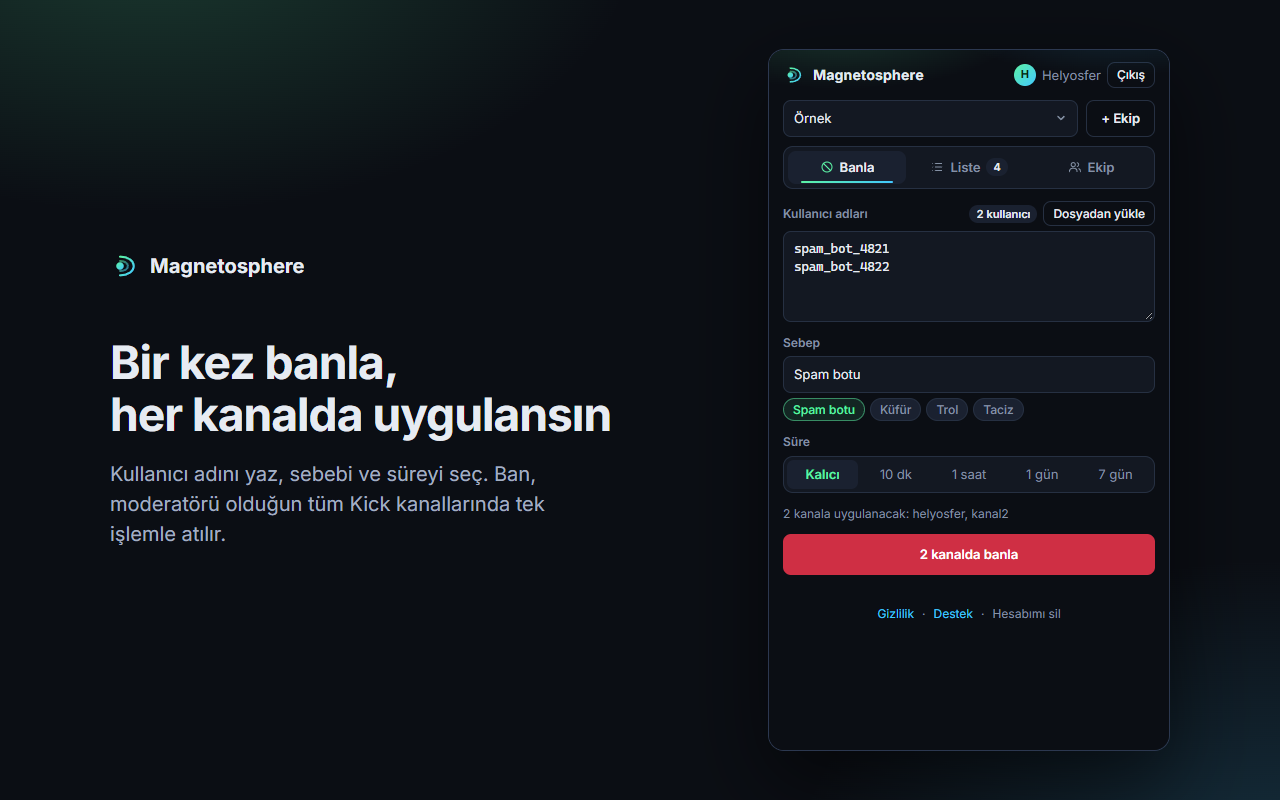
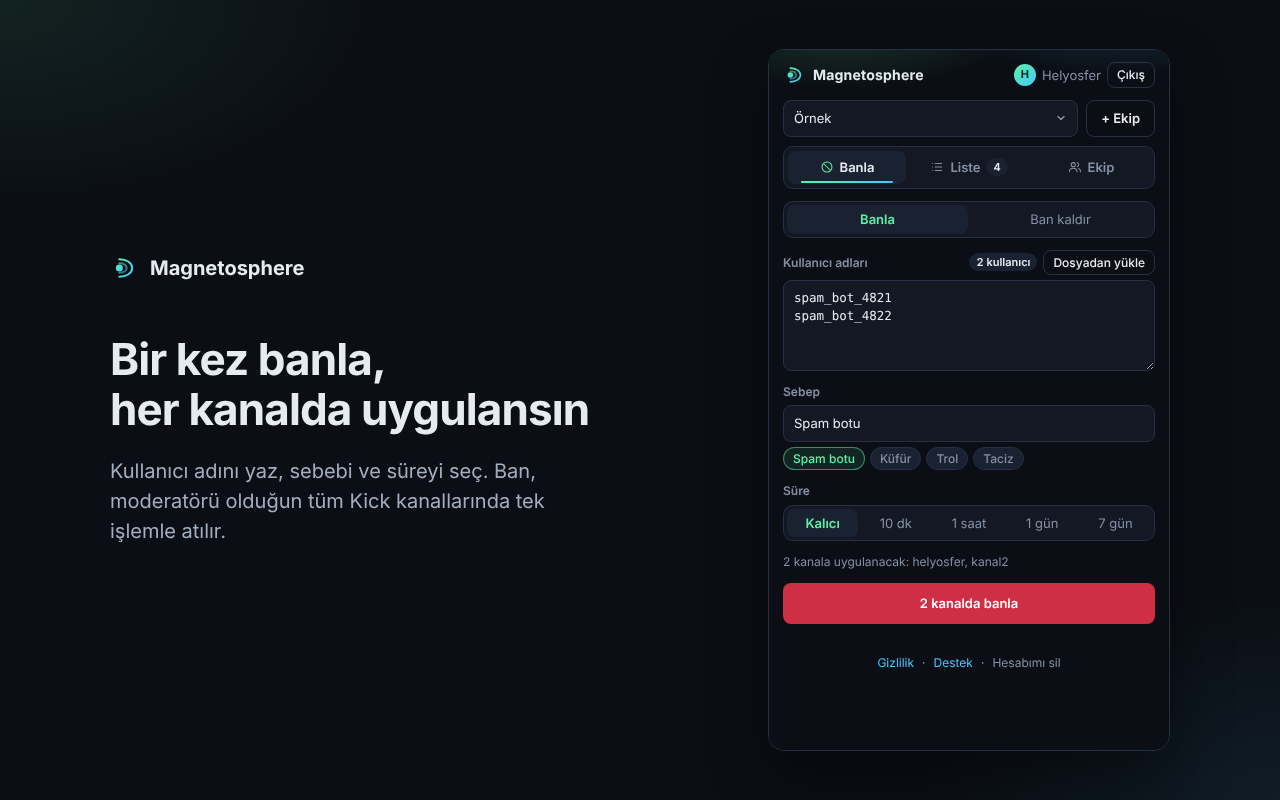
README: Ban kaldır görseli, güncel ekran görüntüleri ve güncelleme adımlarında sürüm kontrolü
- Banla ve Sıra görselleri yeni Banla / Ban kaldır seçimiyle yeniden çekildi;
  ban kaldırma için beşinci mağaza görseli (ekran-5-kaldir.png) eklendi.
- Başlarken'e eski banları kaldırma adımı, rollere listedeki başkasının banı
  kuralı, yol haritasına adıyla ban kaldırma eklendi.
- Sunucuyu güncellemek: git pull klasörün sahibiyle çalıştırılır, yeniden
  başlatmadan önce VERSION kontrol edilir; /health eski sürümü gösterirse
  bakılacak yerler yazıldı.

Claude-Session: https://claude.ai/code/session_012wkESYkN3gt9aucbmjqE4c

diff --git a/README.md b/README.md
@@ -43,10 +43,12 @@ Adını, Dünya'yı güneş rüzgârına karşı koruyan manyetik kalkandan (man
 
 | | |
 |:-:|:-:|
-| <img src="store/ekran-1-banla.png" alt="Banla sekmesi: kullanıcı adları, sebep ve süre" width="420"> | <img src="store/ekran-2-liste.png" alt="Liste sekmesi: banlar ve her kanaldaki sonuç" width="420"> |
-| **Banla:** adları yaz, sebep ve süre seç; ban tüm kanallara birden gider. | **Liste:** kim kimi neden banladı, ban hangi kanallarda uygulandı. |
-| <img src="store/ekran-3-sira.png" alt="Sıra: uzun listelerin arka planda işlenmesi" width="420"> | <img src="store/ekran-4-ekip.png" alt="Ekip sekmesi: kanallar, yayıncı yetkisi ve roller" width="420"> |
-| **Sıra:** binlerce ad arka planda işlenir; panel kapansa da devam eder. | **Ekip:** kanallar, yayıncı yetkisi paylaşımı, üyeler ve rolleri. |
+| <img src="store/ekran-1-banla.png" alt="Banla sekmesi: kullanıcı adları, sebep ve süre" width="420"> | <img src="store/ekran-5-kaldir.png" alt="Ban kaldır: kullanıcı adıyla bütün kanallardan kaldırma" width="420"> |
+| **Banla:** adları yaz, sebep ve süre seç; ban tüm kanallara birden gider. | **Ban kaldır:** adı yaz; Kick'te elle atılmış ban da bütün kanallardan kalkar. |
+| <img src="store/ekran-2-liste.png" alt="Liste sekmesi: banlar ve her kanaldaki sonuç" width="420"> | <img src="store/ekran-3-sira.png" alt="Sıra: uzun listelerin arka planda işlenmesi" width="420"> |
+| **Liste:** kim kimi neden banladı, ban hangi kanallarda uygulandı. | **Sıra:** binlerce ad arka planda işlenir; panel kapansa da devam eder. |
+| <img src="store/ekran-4-ekip.png" alt="Ekip sekmesi: kanallar, yayıncı yetkisi ve roller" width="420"> | |
+| **Ekip:** kanallar, yayıncı yetkisi paylaşımı, üyeler ve rolleri. | |
 
 ## Özellikler
 
@@ -82,6 +84,8 @@ Adını, Dünya'yı güneş rüzgârına karşı koruyan manyetik kalkandan (man
    uzun listeler sıraya alınır ve arka planda işlenir.
 6. **Takip et.** **Liste** sekmesi her banın kanal kanal sonucunu gösterir. Banı buradan kaldırabilir ya da
    uygulanamadığı kanallarda yeniden deneyebilirsin.
+7. **Eski banları kaldır.** Listede olmayan bir ban (Kick'te elle ya da Magnetosphere'den önce atılmış) için
+   **Banla** sekmesinde **Ban kaldır**'ı seç ve kullanıcı adını yaz; ban ekibin bütün kanallarından kalkar.
 
 Ekip kurmak istersen **Ekip** sekmesindeki davet kodunu paylaş; katılanlar aynı kanal listesini ve ban
 listesini kullanır.
@@ -105,6 +109,9 @@ listesini kullanır.
 
 Davetle katılanlar varsayılan olarak moderatör olur; sahip bunu "izleyici olarak başlar" yapabilir.
 Sahip dışındaki herkes ekipten istediği an ayrılabilir.
+
+**Ban kaldır** ile adı yazılan kullanıcının listede başka bir üyenin attığı aktif bir banı varsa, liste
+kuralı geçerlidir: o banı yalnızca sahip ve yöneticiler kaldırabilir.
 
 ### Yayıncı yetkisi paylaşımı
 
@@ -254,14 +261,18 @@ Yukarıdaki kurulumda (kod `/opt/magnetosphere/app`, veritabanı `/opt/magnetosp
 ```bash
 # 1. Yedek
 sqlite3 /opt/magnetosphere/data/crossban.db ".backup '/opt/backups/crossban-$(date +%F)-guncelleme.db'"
-# 2. Kod
-git -C /opt/magnetosphere/app pull
+# 2. Kod; klasörün sahibi olarak çekilir (başka kullanıcıyla git "dubious ownership" deyip reddeder)
+sudo -u "$(stat -c %U /opt/magnetosphere/app)" git -C /opt/magnetosphere/app pull
+grep '^VERSION' /opt/magnetosphere/app/server/app.py   # yeni sürümü görmeden devam etme
 /opt/magnetosphere/venv/bin/pip install -r /opt/magnetosphere/app/server/requirements.txt
 # 3. Yeniden başlat ve kontrol et
 sudo systemctl restart magnetosphere
 curl -s https://<alan-adın>/health          # {"ok": true, "version": "<yeni sürüm>"}
 journalctl -u magnetosphere -n 30 --no-pager
 ```
+
+`/health` hâlâ eski sürümü gösteriyorsa ya `git pull` hata vermiştir ya da servis başka bir klasörden
+çalışıyordur; `systemctl cat magnetosphere` ile `WorkingDirectory` değerine bak.
 
 Oturumlar güncellemeden etkilenmez; kimsenin yeniden giriş yapması gerekmez. Uzantının yeni sürümü yeni bir
 sunucu özelliği kullanıyorsa önce sunucuyu, sonra uzantıyı güncelle; eski uzantı yeni sunucuyla çalışmaya
@@ -393,8 +404,8 @@ python -m unittest test_app
 ```
 
 Testler sahte bir Kick API'sine karşı uçtan uca çalışır; gerçek Kick'e istek atmaz. Giriş, yetki
-düşüşü, sıra ve eşzamanlı işçiler, ekipler arası adil sıra, roller, yetki paylaşımı, hesap silme, eski
-veritabanından geçiş ve güvenlik kuralları kapsanır.
+düşüşü, sıra ve eşzamanlı işçiler, ekipler arası adil sıra, roller, yetki paylaşımı, adıyla ban kaldırma,
+hesap silme, eski veritabanından geçiş ve güvenlik kuralları kapsanır.
 
 ### Chrome Web Store
 
@@ -409,7 +420,7 @@ Mağaza sayfasının metni [`store/aciklama.md`](store/aciklama.md) içindedir. 
 
 | Alan | Dosya | Boyut |
 |---|---|---|
-| Ekran görüntüleri | [`ekran-1-banla.png`](store/ekran-1-banla.png), [`ekran-2-liste.png`](store/ekran-2-liste.png), [`ekran-3-sira.png`](store/ekran-3-sira.png), [`ekran-4-ekip.png`](store/ekran-4-ekip.png) | 1280×800 |
+| Ekran görüntüleri | [`ekran-1-banla.png`](store/ekran-1-banla.png), [`ekran-2-liste.png`](store/ekran-2-liste.png), [`ekran-3-sira.png`](store/ekran-3-sira.png), [`ekran-4-ekip.png`](store/ekran-4-ekip.png), [`ekran-5-kaldir.png`](store/ekran-5-kaldir.png) | 1280×800 |
 | Küçük tanıtım kutusu | [`tanitim-kucuk-440x280.png`](store/tanitim-kucuk-440x280.png) | 440×280 |
 | Büyük tanıtım kutusu | [`tanitim-buyuk-1400x560.png`](store/tanitim-buyuk-1400x560.png) | 1400×560 |
 | Simge | [`extension/icons/icon128.png`](extension/icons/icon128.png) | 128×128 |
@@ -426,6 +437,7 @@ ban kaldırma ve iki kanalda binlerce hesaplık toplu içe aktarma.
 - [x] [Chrome Web Store yayını](https://chromewebstore.google.com/detail/magnetosphere/kjbbjooackbcfeeoolkfpmdbkomjiflh)
 - [x] Tek başına kullanım, ekip içi roller, yayıncı yetkisi için açık rıza, ekipten ayrılma ve hesap silme
 - [x] Herkese açık kullanım için hesap başına sınırlar
+- [x] Kullanıcı adıyla ban kaldırma; Kick'te elle atılmış banlar dahil
 - [ ] İngilizce arayüz
 - [ ] Sohbeti dinleyip spam botlarını şüpheli kuyruğuna alan otomatik yakalama
 - [ ] Süresi dolan süreli banların listede kendiliğinden kapanması

diff --git a/store/aciklama.md b/store/aciklama.md
@@ -56,6 +56,7 @@ Magnetosphere bağımsız bir projedir; Kick ile bağlantılı değildir ve Kick
 | Ekran görüntüsü 2 | `ekran-2-liste.png` | 1280×800 |
 | Ekran görüntüsü 3 | `ekran-3-sira.png` | 1280×800 |
 | Ekran görüntüsü 4 | `ekran-4-ekip.png` | 1280×800 |
+| Ekran görüntüsü 5 | `ekran-5-kaldir.png` | 1280×800 |
 | Küçük tanıtım kutusu | `tanitim-kucuk-440x280.png` | 440×280 |
 | Büyük tanıtım kutusu (isteğe bağlı) | `tanitim-buyuk-1400x560.png` | 1400×560 |
 
